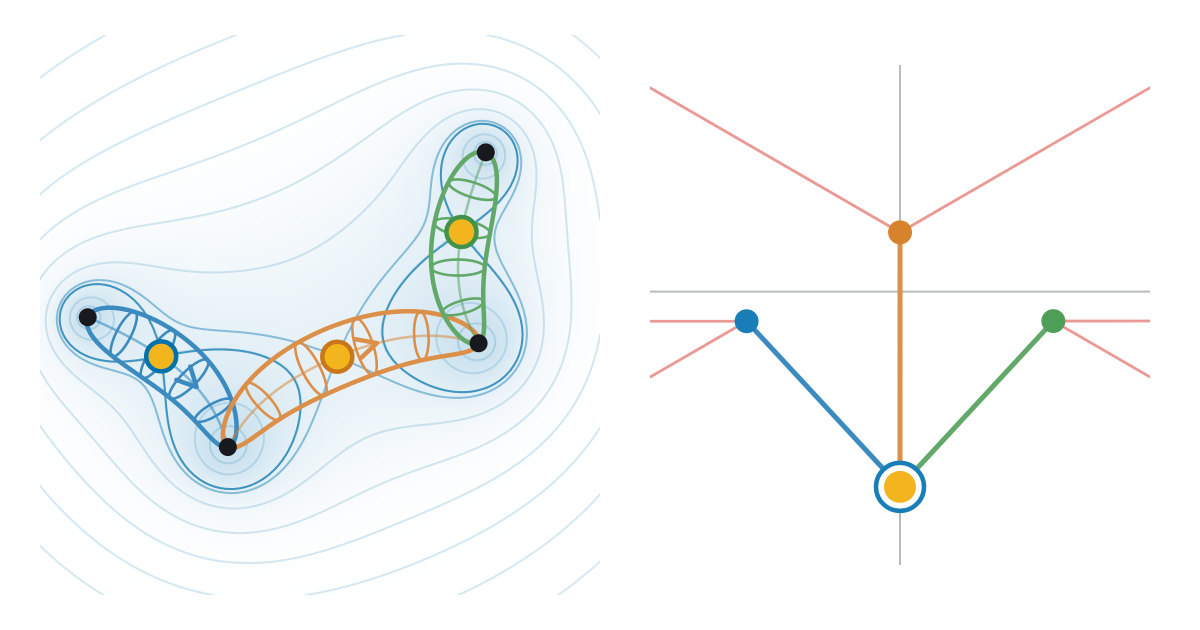
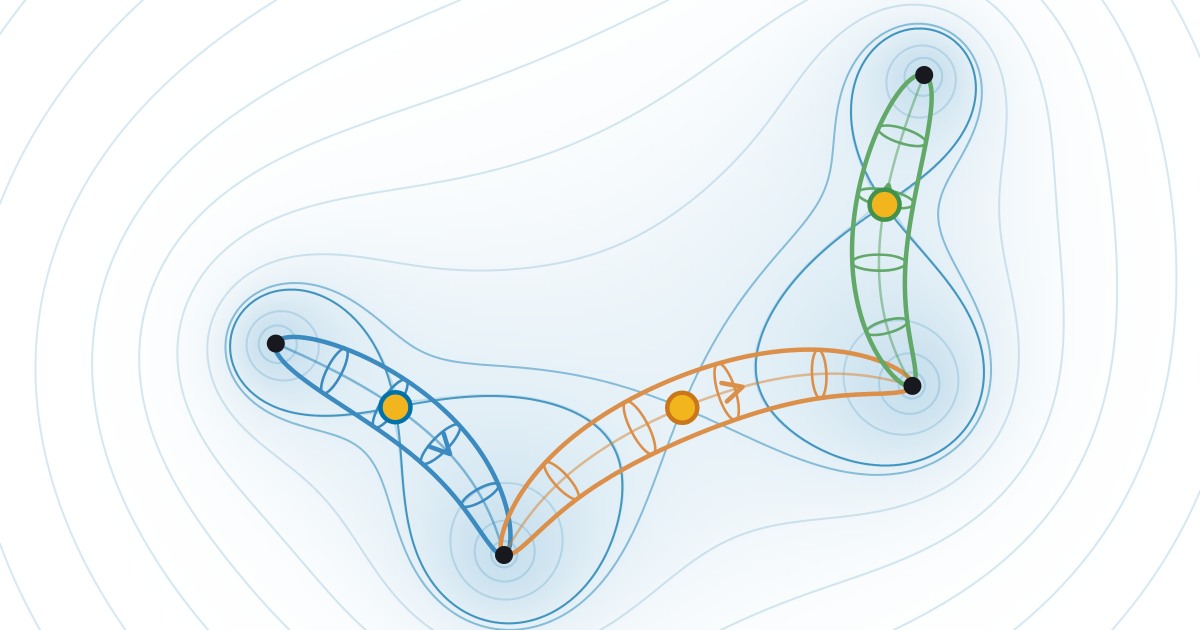
Picard–Lefschetz formula: published
The text is reworked by the user: the general setup (a proper, or tame, f: X → C with
nondegenerate critical points, the Morse form near each, the vanishing sphere and its class),
then the example f = p(x) + y_2² + ⋯ + y_n² on C^n, with τ_i along the straight paths. The
classical monodromy section says why its picture never changes (the loop widens to a large
circle; it is the monodromy of x^{d+1} + ⋯). The Dynkin diagram has Inter numbers in the cycles'
colours, edges under the rings, and a caption for the chosen n; the eigenvalue caption names the
ticks for d and n and gives the order of h. The description of the level sets sits under the
legend in smaller, darker text, in that order on phones too. The card image is the plane of x
alone, across the card. Tagged Algebraic geometry only; references cut with the sentences that
cited them.

diff --git a/content/picard-lefschetz-formula/index.html b/content/picard-lefschetz-formula/index.html
@@ -1,9 +1,8 @@
 ---
 title: Picard–Lefschetz formula
 description: 'Vanishing cycles of a Morse function, and how they change as the value goes once round a critical value: $h_i(\gamma)=\gamma\pm\langle\gamma,\Delta_i\rangle\,\Delta_i$.'
-tags: [complex-analysis, algebraic-geometry]
-date: 2026-11-19
-draft: true
+tags: [algebraic-geometry]
+date: 2026-11-22
 katex_runtime: true
 styles: [style.css]
 scripts: [lefschetz.js, surface.js, main.js, figures.js]
@@ -12,22 +11,6 @@ references:
     authors: V. I. Arnold, S. M. Gusein-Zade, A. N. Varchenko
     title: 'Singularities of Differentiable Maps, Volume II: Monodromy and Asymptotics of Integrals'
     note: Monographs in Mathematics 83, Birkhäuser (1988)
-  - key: lefschetz1924
-    authors: S. Lefschetz
-    title: L’analysis situs et la géométrie algébrique
-    note: Gauthier-Villars, Paris (1924)
-  - key: milnor1968
-    authors: J. Milnor
-    title: Singular Points of Complex Hypersurfaces
-    note: Annals of Mathematics Studies 61, Princeton University Press (1968)
-  - key: picard1897
-    authors: É. Picard, G. Simart
-    title: Théorie des fonctions algébriques de deux variables indépendantes, tome I
-    note: Gauthier-Villars, Paris (1897)
-  - key: seidel2008
-    authors: P. Seidel
-    title: Fukaya Categories and Picard–Lefschetz Theory
-    note: Zurich Lectures in Advanced Mathematics, European Mathematical Society (2008)
 ---
 <div class="wrap">
   <p class="lede">For a function $f\colon X\to\CC$ with isolated nondegenerate critical points, Picard–Lefschetz theory describes how its fibres $X_a = f^{-1}(a)$ change as $a$ goes round a critical value $a_i$ of $f$. Each fibre has a vanishing cycle $\Delta_i \subset X_a$ for each critical value $a_i$, an $(n-1)$-sphere that shrinks to a point as $a$ goes to $a_i$, where $n = \dim X$. Taking $a$ once round $a_i$ changes each cycle $\gamma$ of $X_a$ by the Picard–Lefschetz formula, $h_i(\gamma)=\gamma+(-1)^{n(n+1)/2}\langle\gamma,\Delta_i\rangle\,\Delta_i$.</p>
@@ -75,9 +58,7 @@ references:
       <section class="side-block side-head" aria-labelledby="title">
         <h2 class="side-title" id="title"></h2>
         <div class="legend" id="legend"></div>
-      </section>
-      <section class="side-block side-more pl-about" aria-label="About the level sets">
-        <p class="side-sub" id="sub"></p>
+        <p class="pl-about" id="sub"></p>
       </section>
       <section class="side-block pl-zblock" aria-label="The plane of values">
         <div class="pl-zplane" id="zplane">
@@ -115,34 +96,39 @@ references:
     </div>
     <figcaption class="caption" id="v3-cap">The level set $X_a$ near a critical point $x_i$, in coordinates in which $f=a_i+x^2+y^2$, as $a$ comes to $a_i$. It is the curve $x^2+y^2=a-a_i$, a double cover of the disc $|x|\le1$ branched at $\pm\sqrt{a-a_i}$, whose two sheets, white and blue, meet along the vanishing circle. At $a=a_i$ the cycle has shrunk to the singular point.</figcaption>
   </figure>
-  <p>In general, $f\colon X\to\CC$ is a holomorphic function on a complex manifold of dimension $n$ whose critical points are isolated and nondegenerate, with distinct critical values, and which is well behaved at infinity (proper, for instance); Lefschetz studied the fibres of a pencil of hyperplane sections of a projective variety in this way [@lefschetz1924]. Over the regular values its fibres form a fibre bundle, so a loop of values carries the homology of a fibre back to itself. Near each critical point $f$ is a sum of squares in suitable coordinates, which gives a vanishing cycle, and what a loop round a single critical value does depends only on this local form [@arnold1988]. This page follows one example, on $X=\CC^n$, in which all of this can be seen in the plane of $x$.</p>
-  <p>Let $p$ be a monic polynomial of degree $d+1$ whose critical points $x_1,\dots,x_d$ are simple and whose critical values $a_i=p(x_i)$ are distinct. The critical points of $f=p(x)+y_2^2+\cdots+y_n^2$ are the points $(x_i,0,\dots,0)$, all nondegenerate, so the level set $X_a=f^{-1}(a)$ is a smooth complex manifold for every $a$ other than $a_1,\dots,a_d$. It is homotopy equivalent to a bouquet of $d$ spheres $S^{n-1}$, as Milnor showed for the level sets near any isolated critical point [@milnor1968], so that</p>
-  $$H_{n-1}(X_a)\cong\ZZ^d$$
-  <p>(in reduced homology for $n=1$, where $X_a$ is $d+1$ points).</p>
-  <p>Near $x_i$ there are coordinates in which $f=a_i+x^2+y_2^2+\cdots+y_n^2$. For $a$ near $a_i$ the level set there is the quadric $x^2+y_2^2+\cdots+y_n^2=a-a_i$, which contains the sphere of its points in $\sqrt{a-a_i}\,\RR^n$, and this sphere shrinks to the point $x_i$ as $a$ tends to $a_i$, where the quadric becomes a cone. Carried back along a path $\ell$ from a regular value to $a_i$, it gives a class in the homology of the level set at the start of $\ell$, the <strong>vanishing cycle</strong> along $\ell$, defined up to its orientation [@arnold1988, Ch. 1].</p>
-  <p>Since $f$ is $p(x)$ plus a sum of squares, its vanishing cycles can be seen in the plane of $x$. Over a point $x$ the level set is the quadric $y_2^2+\cdots+y_n^2=a-p(x)$, which contains the sphere $\sqrt{a-p(x)}\,S^{n-2}$ and degenerates to a point where $p(x)=a$. A path from $a$ to $a_i$ lifts through $x_i$ to an arc between two roots of $p(x)=a$, and the vanishing cycle is made of the spheres over the points of the arc [@seidel2008]. For the straight path from $a$ to $a_i$ the arc is the line through $x_i$ on which $p(x)-a$ has the phase of $a_i-a$: it runs from the saddle $x_i$ of $|p(x)-a|$ down to two roots, the way water runs, across the level lines in the picture at the top (with Phase in the bar, it runs along the colour of $x_i$).</p>
-  <p>The straight paths from $a$ to the critical values meet only at $a$, and numbered in the order in which they leave it, clockwise, they form a <strong>distinguished system of paths</strong>; their vanishing cycles $\Delta_1,\dots,\Delta_d$ form a basis of $H_{n-1}(X_a)$ [@arnold1988].</p>
+  <p>Consider a holomorphic function $f\colon X\to\CC$ on a complex manifold of dimension $n$ whose critical points are isolated and nondegenerate, with distinct critical values, and which has no critical points at infinity. Near a critical point with critical value $a_i$, $f$ is a sum of squares</p>
+  $$f (z) - a_i = z_1^2 + \cdots + z_n^2$$
+  <p>for suitable coordinates $z_1,\dots,z_n$ round it, and for $a = a_i + \varepsilon$ with small $|\varepsilon| > 0$, the nearby fibre $X_a = f^{-1} (a)$ is, near the critical point,</p>
+  $$\{ z_1^2 + \cdots + z_n^2 = \varepsilon \},$$
+  <p>and contains a sphere $S^{n-1}$, the <strong>vanishing cycle</strong>, where all $z_k / \sqrt{\varepsilon} \in \RR$, which shrinks to a point as $\varepsilon \to 0$. Strictly speaking, the vanishing cycle is the class </p>
+  $$\Delta_i \in H_{n-1}(X_a)$$
+  <p>represented by the sphere $S^{n-1}$, well-defined up to its orientation
+  (in reduced homology when $n = 1$). Picard–Lefschetz theory describes what happens to cycles when $a$ goes round a critical value $a_i$, which only depends on this local form.</p>
+  <p>Here, we follow one example in which all of this can be seen in a plane. Take $X=\CC^n$, and consider the function</p>
+  $$f (x, y_2, \dots, y_n) = p(x) + y_2^2 + \cdots + y_n^2,$$
+  <p>where $p$ is a monic polynomial of degree $d+1$ with simple critical points $x_1,\dots,x_d$ and distinct critical values $a_i=p(x_i)$. The critical points of $f$ are the points $(x_i,0,\dots,0)$, and the level set $X_a=f^{-1}(a)$ is a smooth complex manifold for every $a$ other than $a_1,\dots,a_d$. It is homotopy equivalent to a bouquet of $d$ spheres $S^{n-1}$, as can be seen from the picture at the top, so that</p>
+  $$H_{n-1}(X_a)\simeq\ZZ^d$$
+  <p>(in reduced homology for $n=1$, where $X_a$ is $d+1$ points), and it has a basis given by the vanishing cycles $\Delta_1,\dots,\Delta_d$, each obtained by moving $a$ towards $a_i$ along a straight path, as long as it does not pass through any other $a_j$.</p>
 </section>
 
 <section aria-labelledby="sec-formula">
   <h2 class="section-title" id="sec-formula">The Picard–Lefschetz formula</h2>
-  <p>Let $\tau_i$ be the loop that goes from $a$ along the straight path to near $a_i$, once round $a_i$ counterclockwise, and back. Carrying the cycles of $X_a$ along $\tau_i$ gives an automorphism $h_i$ of $H_{n-1}(X_a)$, and the <strong>Picard–Lefschetz formula</strong> says that</p>
+  <p>Let $\tau_i$ be the loop that goes from $a$ along the straight path to near $a_i$, once round $a_i$ counterclockwise, and back. Carrying the cycles of $X_a$ along $\tau_i$ gives an automorphism $h_i$ of $H_{n-1}(X_a)$, called the <strong>monodromy</strong>, and it is given by the <strong>Picard–Lefschetz formula</strong></p>
   <div class="pl-eq" id="eq-1">$$h_i(\gamma)=\gamma+(-1)^{n(n+1)/2}\,\langle\gamma,\Delta_i\rangle\,\Delta_i,\tag{1}$$</div>
-  <p>where $\langle\ ,\ \rangle$ is the intersection form of $X_a$, defined with its complex orientation [@arnold1988, Ch. 1]. It is named after Picard, who studied the cycles on the curves of a family of plane curves [@picard1897], and Lefschetz, who studied them in every dimension [@lefschetz1924].</p>
+  <p>where $\langle\ ,\ \rangle$ is the intersection form of $X_a$, defined with its complex orientation [@arnold1988, Ch. 1]. The picture at the top shows this: take $a$ once round $a_i$, by hand or from the bar, and the cycles $\Delta_j$ that meet $\Delta_i$ come back running along it.</p>
   <p>The self-intersection of a vanishing cycle is</p>
   $$\langle\Delta,\Delta\rangle=\begin{cases}(-1)^{(n-1)(n-2)/2}\cdot2,&n\text{ odd},\\0,&n\text{ even}.\end{cases}$$
   <p>So for odd $n$, $h_i(\Delta_i)=-\Delta_i$ and $h_i$ is the reflection in the hyperplane orthogonal to $\Delta_i$. For even $n$, $h_i(\Delta_i)=\Delta_i$ and $h_i$ is a transvection; for $n=2$ it is the action of the Dehn twist of the curve $X_a$ about the circle $\Delta_i$.</p>
-  <p>Only the part of $X_a$ near $x_i$ changes as $a$ goes round $a_i$. There the two roots at the ends of $\Delta_i$ are $x_i\pm\sqrt{(a-a_i)/b_i}$ to first order, with $b_i=\frac12p''(x_i)$, so they turn half a turn round each other. An arc that ends at one of them comes back as the arc that runs along it and then along $\Delta_i$: it has become $\gamma\pm\Delta_i$, with the sign of <a href="#eq-1">$(1)$</a>. The picture at the top shows this: take $a$ once round $a_i$, by hand or from the bar, and the cycles that meet $\Delta_i$ come back running along it.</p>
-  <p>The basis of straight paths in the picture at the top does not change as $a$ goes round $a_i$: it is the same basis when $a$ is back (choose $\Delta_i$ in the bar to see it). Instead it jumps where $a$ crosses a <strong>Stokes ray</strong>, the ray from $a_k$ away from $a_j$: there the straight path to $a_j$ runs through $a_k$, $\Delta_j$ runs into $x_k$, and across the ray the path to $a_j$ changes by the loop $\tau_k$, so that $\Delta_j$ becomes $h_k^{\pm1}(\Delta_j)$. This is the Stokes phenomenon of <a href="/stokes-phenomenon/">Stokes phenomenon</a>, where the thimbles jump in the same way.</p>
+  <p>On the other hand, the basis $\Delta_i$ given by straight paths in the picture at the top does not change after $a$ goes round $a_i$: it is the same basis when $a$ is back (choose <em>Show $\Delta_i$</em> to see it). Instead it jumps where $a$ crosses a <strong>Stokes ray</strong>, the ray from $a_k$ away from $a_j$: there the straight path to $a_j$ runs through $a_k$, $\Delta_j$ runs into $x_k$, and across the ray the path to $a_j$ changes by the loop $\tau_k$, so that $\Delta_j$ becomes $h_k^{\pm1}(\Delta_j)$. The thimbles of <a href="/stokes-phenomenon/">Stokes phenomenon</a> jump in the same way.</p>
 </section>
 
 <section aria-labelledby="sec-form">
   <h2 class="section-title" id="sec-form">The intersection form</h2>
   <figure id="dyn-fig">
     <div class="pl-dynbox"><svg id="dyn" role="img" aria-label="The Dynkin diagram of the vanishing cycles in the picture at the top"></svg></div>
-    <figcaption class="caption">The Dynkin diagram of the basis in the picture at the top: a node for each $\Delta_i$, placed as its critical value, and an edge where $\langle\Delta_i,\Delta_j\rangle\ne0$, dashed where it is $-1$ for $n=3$ (for $n=1$ the signs are the other way), and for $n=2$ pointing from $i$ to $j$ where $\langle\Delta_i,\Delta_j\rangle=1$.</figcaption>
+    <figcaption class="caption" id="dyn-cap">The Dynkin diagram of the basis in the picture at the top: a node for each $\Delta_i$, placed as its critical value, and an arrow from $i$ to $j$ where $\langle\Delta_i,\Delta_j\rangle=1$.</figcaption>
   </figure>
-  <p>The arcs of a distinguished basis meet only at their ends. Two vanishing cycles whose arcs share an end meet once, at the point over it, and $\langle\Delta_i,\Delta_j\rangle=\pm1$; cycles over disjoint arcs do not meet. The form is symmetric for odd $n$ and skew-symmetric for even $n$, and adding two squares changes its sign without changing the monodromy [@arnold1988]:</p>
+  <p>The arcs of a basis $\Delta_1,\dots,\Delta_d$ meet only at their ends. Two vanishing cycles whose arcs share an end meet once, at the point over it, and $\langle\Delta_i,\Delta_j\rangle=\pm1$; cycles over disjoint arcs do not meet. The form is symmetric for odd $n$ and skew-symmetric for even $n$, and increasing $n$ by $2$ changes its sign without changing the monodromy [@arnold1988]:</p>
   $$\langle\gamma,\delta\rangle_{n+2}=-\langle\gamma,\delta\rangle_n,\qquad h^{(n+2)}_i=h^{(n)}_i.$$
   <p>For $n=3$, $-\langle\ ,\ \rangle$ is positive definite, and the vanishing cycles are roots of the root system $\mathrm{A}_d$ (see <a href="/root-systems/">Root systems</a>); the basis the page opens with is a chain, with the Dynkin diagram of $\mathrm{A}_d$. Where $a$ crosses a Stokes ray the basis changes, and so does the diagram, though the lattice it describes does not.</p>
 </section>
@@ -151,12 +137,11 @@ references:
   <h2 class="section-title" id="sec-monodromy">Monodromy</h2>
   <figure id="eig-fig">
     <div class="pl-eigbox"><svg id="eig" role="img" aria-label="The eigenvalues of the classical monodromy on the unit circle"></svg></div>
-    <p class="caption pl-twval" id="eig-val"></p>
-    <figcaption class="caption">The eigenvalues of the classical monodromy $h$ on the unit circle, with ticks at the $(d+1)$-th roots of unity times $(-1)^{n-1}$.</figcaption>
+    <figcaption class="caption" id="eig-cap">The eigenvalues of the classical monodromy $h$ on the unit circle, with ticks at minus the fourth roots of unity; $h$ has order $4$.</figcaption>
   </figure>
-  <p>A loop that $a$ travels is a product of the loops $\tau_i$ and their inverses, which generate the fundamental group of the plane without the critical values, a free group. The <strong>monodromy</strong> of the loop is the automorphism $h$ it gives; if it is $\tau_{i_1}^{\pm1}$, then $\tau_{i_2}^{\pm1}$, and so on, then $h=\cdots h_{i_2}^{\pm1}h_{i_1}^{\pm1}$, which preserves the intersection form. Next to the picture at the top, $h(\Delta_i)$ is $\Delta_i$ carried along the path of $a$ since it was picked up (or along the loop chosen in the bar), written in the basis at $a$, with the path closed up by the straight segment back to its start. The picture shows these cycles (with $\Delta_i$ in the bar, the basis instead): their arcs are dragged along with the roots and pulled tight once $a$ rests, a number beside an arc saying how many of its strands run together there, and while $h$ is the identity they are drawn as the basis. For odd $n$ the class of a sphere over an arc depends only on the roots at its ends, as for $n=1$, so that $h_i^2=1$ though the spheres carried wind once more round the ends of $\Delta_i$ each time $a$ goes round $a_i$; there each $h(\Delta_i)$ is drawn along the arcs of the basis that join its ends.</p>
-  <p>The <strong>monodromy group</strong> is generated by $h_1,\dots,h_d$. For odd $n$ these are reflections, and they generate the Weyl group of $\mathrm{A}_d$, the symmetric group on $d+1$ letters; for $n=1$ it permutes the $d+1$ points of $X_a$. For $n=2$ the group is infinite: for $d=2$, $X_a$ is a torus with a hole and the group is $\mathrm{SL}_2(\ZZ)$.</p>
-  <p>Once round all the critical values is the <strong>classical monodromy</strong>, $h=h_1h_2\cdots h_d$ for a distinguished basis [@arnold1988]. For $f=x^{d+1}+y_2^2+\cdots+y_n^2$ its eigenvalues are $(-1)^{n-1}\mathrm{e}^{2\pi\mathrm{i}k/(d+1)}$ for $k=1,\dots,d$; in the basis the page opens with it takes $\Delta_1,\dots,\Delta_{d-1}$ to $\pm\Delta_2,\dots,\pm\Delta_d$.</p>
+  <p>When $a$ travels along a loop which is a product of the loops $\tau_i$ and their inverses, the <strong>monodromy</strong> of the loop is the automorphism $h$ which is the product of the corresponding operators $h_i^{\pm 1}$, which preserves the intersection form. The fundamental group of the plane without the critical values $a_i$ is a free group generated by the loops $\tau_i$, so these loops give all the possible monodromies.</p>
+  <p>The <strong>monodromy group</strong> is the group generated by $h_1,\dots,h_d$. For odd $n$ these are reflections, and they generate the Weyl group of $\mathrm{A}_d$, the symmetric group on $d+1$ letters; for $n=1$ it permutes the $d+1$ points of $X_a$. For $n=2$ the group is infinite: for $d=2$, $X_a$ is a punctured torus and the group is $\mathrm{SL}_2(\ZZ)$.</p>
+  <p>The monodromy for the loop that goes once round all the critical values is the <strong>classical monodromy</strong> $h=h_1h_2\cdots h_d$ [@arnold1988]. That loop can be widened to a large circle, far from all the critical values, so up to conjugation $h$ stays the same when the critical points move, and its eigenvalues do not change. Bringing the critical points together at $0$ gives $f=x^{d+1}+y_2^2+\cdots+y_n^2$, whose monodromy has eigenvalues $(-1)^{n-1}\mathrm{e}^{2\pi\mathrm{i}k/(d+1)}$ for $k=1,\dots,d$; in the basis the page opens with it takes $\Delta_1,\dots,\Delta_{d-1}$ to $\pm\Delta_2,\dots,\pm\Delta_d$.</p>
 </section>
 </div>
 </div>

diff --git a/content/picard-lefschetz-formula/thumb.html b/content/picard-lefschetz-formula/thumb.html
@@ -1,37 +1,27 @@
-<!-- The card image (npm run thumbs): the page's two pictures as it opens (μ = 3, n = 3), computed
-     with lefschetz.js as main.js computes them, with heavier marks so that they read at card size.
-     Left, the plane of x, shaded by |p(x) − z| with its level lines, the roots of p(x) = z, the
-     vanishing spheres over the arcs of the straight paths (their outlines, a few of their circles
-     and their orientations) and the critical points. Right, the plane of values: the Stokes rays,
-     the straight paths from z to the critical values, the critical values and the handle z. -->
+<!-- The card image (npm run thumbs): the main picture, the plane of x, for d = 3 and n = 3 with the
+     value a where the page opens, computed with lefschetz.js as main.js computes it, with heavier
+     marks so that it reads at card size, across the whole card: shaded by |p(x) − a| with its level
+     lines, the roots of p(x) = a, the vanishing spheres over the arcs of the straight paths (their
+     outlines, a few of their circles and their orientations) and the critical points. (In the
+     script, z is the value a, as in main.js.) -->
 <script src="lefschetz.js"></script>
 <script>
 (function () {
   const W = MMThumb.W, H = MMThumb.H, cx = MMThumb.canvas(), PL = window.Lefschetz, TAU = 2 * Math.PI;
   const crit = [[-0.918, -0.239], [0.1, -0.241], [0.818, 0.48]];
   const P = PL.poly(crit), dist = (a, b) => Math.hypot(a[0] - b[0], a[1] - b[1]);
-  // the page's windows (main.js, fit): the plane of values round the critical values and z, the
-  // plane of x round the roots of p(x) = w for w in it
+  // the value where the page opens (main.js)
   let Rc = 1e-3;
   P.vals.forEach((v) => { Rc = Math.max(Rc, Math.hypot(v[0], v[1])); });
-  const z = [0, -1.25 * Rc], zv = { cx: 0, cy: -0.15 * Rc, R: Math.max(1.6 * Rc, 1.2 * Math.hypot(z[0], z[1] + 0.15 * Rc)) };
-  let Rx = 0, guess = null;
-  for (let k = 0; k < 96; k++) {
-    const t = k / 96 * TAU;
-    guess = PL.roots(P, zv.cx + 1.2 * zv.R * Math.cos(t), zv.cy + 1.2 * zv.R * Math.sin(t), guess);
-    guess.forEach((q) => { Rx = Math.max(Rx, Math.hypot(q[0], q[1])); });
-  }
-  crit.forEach((c) => { Rx = Math.max(Rx, 1.15 * Math.hypot(c[0], c[1])); });
-  const xv = { cx: 0, cy: 0, R: 1.04 * Rx };
-  // the two squares on the card
-  const box = (v, x0, y0, side) => {
-    const k = side / (2 * v.R);
-    return { k, x0, y0, side, X: (x) => x0 + side / 2 + (x - v.cx) * k, Y: (y) => y0 + side / 2 - (y - v.cy) * k, x: (px) => v.cx + (px - x0 - side / 2) / k, y: (py) => v.cy - (py - y0 - side / 2) / k };
-  }
-  const XB = box(xv, 40, 35, 560), ZB = box(zv, 650, 65, 500);
+  const z = [0, -1.25 * Rc];
+  // the whole card, round the roots of p(x) = z and the critical points, with room for the spheres
+  const rts = PL.roots(P, z[0], z[1]), pts = rts.concat(crit);
+  const bx0 = Math.min(...pts.map((q) => q[0])), bx1 = Math.max(...pts.map((q) => q[0])), by0 = Math.min(...pts.map((q) => q[1])), by1 = Math.max(...pts.map((q) => q[1]));
+  const kx = Math.min((W - 2 * 110) / (bx1 - bx0), (H - 2 * 75) / (by1 - by0)), mx = (bx0 + bx1) / 2, my = (by0 + by1) / 2;
+  const XB = { k: kx, x0: 0, y0: 0, w: W, h: H, X: (x) => W / 2 + (x - mx) * kx, Y: (y) => H / 2 - (y - my) * kx, x: (px) => mx + (px - W / 2) / kx, y: (py) => my - (py - H / 2) / kx };
 
   // the cycles along the straight paths from z, oriented as on the page
-  const rts = PL.roots(P, z[0], z[1]), h = 2 / XB.k;
+  const h = 2 / XB.k;
   const raw = P.vals.map((v, j) => {
     const r = Math.sqrt(dist(z, v)), ph = Math.atan2(z[1] - v[1], z[0] - v[0]);
     const A = PL.lift(P, j, [z[0], z[1], v[0], v[1]], [1, 0], [r * Math.cos(ph / 2), r * Math.sin(ph / 2)], h);
@@ -79,8 +69,8 @@
     // critical points, with its level lines, those through the critical points darker (main.js,
     // landImage)
     cx.save();
-    cx.beginPath(); cx.rect(XB.x0, XB.y0, XB.side, XB.side); cx.clip();
-    const sig = 0.4 * Rc, G0 = 5, nx = Math.ceil(XB.side / G0) + 1, ny = nx, G = new Float64Array(nx * ny), e = [0, 0, 0, 0];
+    cx.beginPath(); cx.rect(XB.x0, XB.y0, XB.w, XB.h); cx.clip();
+    const sig = 0.4 * Rc, G0 = 5, nx = Math.ceil(XB.w / G0) + 1, ny = Math.ceil(XB.h / G0) + 1, G = new Float64Array(nx * ny), e = [0, 0, 0, 0];
     const g = (x, y) => { PL.evalPD(P, x, y, e); return Math.asinh(Math.hypot(e[0] - z[0], e[1] - z[1]) / sig); };
     for (let j = 0; j < ny; j++) for (let i = 0; i < nx; i++) G[j * nx + i] = g(XB.x(XB.x0 + i * G0), XB.y(XB.y0 + j * G0));
     const lv = P.vals.map((v) => Math.asinh(dist(v, z) / sig)).sort((a, b) => a - b), mid = lv[lv.length >> 1];
@@ -148,33 +138,6 @@
       cx.fillStyle = MM.color('handle'); cx.strokeStyle = MM.color('cy-' + (j + 1) + '-text'); cx.lineWidth = 4.5;
       cx.beginPath(); cx.arc(XB.X(c[0]), XB.Y(c[1]), 15, 0, TAU); cx.fill(); cx.stroke();
     });
-    cx.restore();
-
-    // the plane of values: axes, Stokes rays, the paths from z, the critical values, z
-    const Z = ZB;
-    cx.save();
-    cx.beginPath(); cx.rect(Z.x0, Z.y0, Z.side, Z.side); cx.clip();
-    cx.strokeStyle = MM.rgba('ink', 0.3); cx.lineWidth = 2;
-    cx.beginPath();
-    cx.moveTo(Z.x0, Z.Y(0)); cx.lineTo(Z.x0 + Z.side, Z.Y(0));
-    cx.moveTo(Z.X(0), Z.y0); cx.lineTo(Z.X(0), Z.y0 + Z.side);
-    cx.stroke();
-    const vals = P.vals, far = 4 * zv.R;
-    cx.strokeStyle = MM.rgba('red', 0.5); cx.lineWidth = 2.8;
-    vals.forEach((zj, j) => vals.forEach((zk, k) => {
-      if (j === k) return;
-      const L = dist(zk, zj);
-      cx.beginPath(); cx.moveTo(Z.X(zk[0]), Z.Y(zk[1])); cx.lineTo(Z.X(zk[0] + (zk[0] - zj[0]) / L * far), Z.Y(zk[1] + (zk[1] - zj[1]) / L * far)); cx.stroke();
-    }));
-    vals.forEach((v, j) => {
-      cx.strokeStyle = MM.color('cy-' + (j + 1) + '-line'); cx.lineWidth = 5;
-      cx.beginPath(); cx.moveTo(Z.X(z[0]), Z.Y(z[1])); cx.lineTo(Z.X(v[0]), Z.Y(v[1])); cx.stroke();
-    });
-    vals.forEach((v, j) => { cx.fillStyle = MM.color('cy-' + (j + 1)); cx.beginPath(); cx.arc(Z.X(v[0]), Z.Y(v[1]), 12, 0, TAU); cx.fill(); });
-    const hx = Z.X(z[0]), hy = Z.Y(z[1]);
-    cx.fillStyle = MM.color('surface'); cx.beginPath(); cx.arc(hx, hy, 24, 0, TAU); cx.fill();
-    cx.strokeStyle = MM.color('handle-ring'); cx.lineWidth = 4.5; cx.beginPath(); cx.arc(hx, hy, 24, 0, TAU); cx.stroke();
-    cx.fillStyle = MM.color('handle'); cx.beginPath(); cx.arc(hx, hy, 16, 0, TAU); cx.fill();
     cx.restore();
   }
   MM.onFonts(draw);

diff --git a/content/picard-lefschetz-formula/figures.js b/content/picard-lefschetz-formula/figures.js
@@ -361,6 +361,13 @@
     const key = JSON.stringify([W, n, S, vals]);
     if (svg.dataset.key === key) return;
     svg.dataset.key = key;
+    // its caption, for the n in the bar
+    const cap = $('dyn-cap');
+    if (cap && cap.dataset.n !== String(n)) {
+      cap.dataset.n = String(n);
+      MM.setHTML(cap, 'The Dynkin diagram of the basis in the picture at the top: a node for each $\\Delta_i$, placed as its critical value, and '
+        + (n === 2 ? 'an arrow from $i$ to $j$ where $\\langle\\Delta_i,\\Delta_j\\rangle=1$.' : 'an edge where $\\langle\\Delta_i,\\Delta_j\\rangle\\ne0$, dashed where it is $' + (n === 1 ? '1' : '-1') + '$.'));
+    }
     svg.setAttribute('viewBox', '0 0 ' + W + ' ' + H); svg.style.width = W + 'px'; svg.style.height = H + 'px';
     svg.textContent = '';
     const P = vals.map((v) => [W / 2 + (v[0] - (x0 + x1) / 2) * k, H / 2 - (v[1] - (y0 + y1) / 2) * k]);
@@ -370,14 +377,14 @@
       if (!t) continue;
       const g = el('g', {}, svg), [a, b] = t > 0 || n % 2 ? [P[i], P[j]] : [P[j], P[i]];
       const l = Math.hypot(b[0] - a[0], b[1] - a[1]), ux = (b[0] - a[0]) / l, uy = (b[1] - a[1]) / l;
-      el('line', { x1: a[0] + ux * 13, y1: a[1] + uy * 13, x2: b[0] - ux * 13, y2: b[1] - uy * 13, stroke: 'var(--ink)', 'stroke-width': 1.8, 'stroke-dasharray': n % 2 && t * (n === 1 ? -1 : 1) < 0 ? '5 4' : 'none' }, g);
+      el('line', { x1: a[0] + ux * 11, y1: a[1] + uy * 11, x2: b[0] - ux * 11, y2: b[1] - uy * 11, stroke: 'var(--ink)', 'stroke-width': 1.8, 'stroke-dasharray': n % 2 && t * (n === 1 ? -1 : 1) < 0 ? '5 4' : 'none' }, g);
       if (n % 2 === 0) { const mx = (a[0] + b[0]) / 2, my = (a[1] + b[1]) / 2; el('path', { d: 'M' + (mx - ux * 6 - uy * 5) + ' ' + (my - uy * 6 + ux * 5) + 'L' + (mx + ux * 4) + ' ' + (my + uy * 4) + 'L' + (mx - ux * 6 + uy * 5) + ' ' + (my - uy * 6 - ux * 5), fill: 'none', stroke: 'var(--ink)', 'stroke-width': 1.8 }, g); }
-      if (Math.abs(t) > 1) { const lbl = el('text', { x: (a[0] + b[0]) / 2 - uy * 12, y: (a[1] + b[1]) / 2 + ux * 12 + 4, 'text-anchor': 'middle', 'font-size': 14 }, g); MM.svgLabel(lbl, '$' + Math.abs(t) + '$'); }
+      if (Math.abs(t) > 1) el('text', { x: (a[0] + b[0]) / 2 - uy * 12, y: (a[1] + b[1]) / 2 + ux * 12 + 4, 'text-anchor': 'middle', style: 'font:600 13px var(--sans);fill:var(--ink)' }, g).textContent = String(Math.abs(t));
     }
     P.forEach((p, i) => {
+      // (its number in Inter, in its cycle's colour, as on the handles of the main picture)
       el('circle', { cx: p[0], cy: p[1], r: 11, fill: 'var(--surface)', stroke: 'var(--cy-' + (i + 1) + '-text)', 'stroke-width': 2.4 }, svg);
-      const t = el('text', { x: p[0], y: p[1] + 5, 'text-anchor': 'middle', 'font-size': 14, fill: 'var(--cy-' + (i + 1) + '-text)' }, svg);
-      MM.svgLabel(t, '$' + (i + 1) + '$');
+      el('text', { x: p[0], y: p[1] + 4.6, 'text-anchor': 'middle', style: 'font:600 13px var(--sans);fill:var(--cy-' + (i + 1) + '-text)' }, svg).textContent = String(i + 1);
     });
   }
 
@@ -443,7 +450,9 @@
     // its order
     let P = PL.eye(mu), ord = 0;
     for (let k = 1; k <= 2 * N; k++) { P = PL.matmul(P, H); if (P.every((r, i) => r.every((x, j) => x === +(i === j)))) { ord = k; break; } }
-    MM.setHTML($('eig-val'), ord ? '$h$ has order $' + ord + '$.' : '');
+    // the caption, with the ticks for this d and n, and the order
+    const nth = ['', '', 'second', 'third', 'fourth', 'fifth', 'sixth', 'seventh'][N] || '$(' + N + ')$-th';
+    MM.setHTML($('eig-cap'), 'The eigenvalues of the classical monodromy $h$ on the unit circle, with ticks at ' + (n % 2 ? 'the ' : 'minus the ') + nth + ' roots of unity' + (ord ? '; $h$ has order $' + ord + '$.' : '.'));
   }
 
   /* ---------- the whole ---------- */

diff --git a/content/picard-lefschetz-formula/style.css b/content/picard-lefschetz-formula/style.css
@@ -1,8 +1,7 @@
 /* Picard–Lefschetz formula.
-   Wide: the plane of x on the left; on the right the function, the legend and what the level sets
+   Wide: the plane of x on the left; on the right the function, its legend and what its level sets
    are, the plane of values with the handle of a, the monodromy and the intersection form.
-   Phone: the plane of x, the function and the legend, the plane of values (close under them, so
-   that the picture shows while a moves), what the level sets are, then the rest. */
+   Phone: the plane of x, then the same blocks in the same order. */
 
 /* One colour for each vanishing cycle Δ_i, its path γ_i, its critical point and critical value;
    main.js reads the same names through MM.color. */
@@ -35,13 +34,6 @@ body {
 .pl-sheets { display: inline-block; width: 15px; height: 13px; border-radius: 3px; flex: none; border: 1px solid var(--rule); background: linear-gradient(var(--surface) 50%, color-mix(in srgb, var(--land) 20%, var(--surface)) 50%); }
 
 .pl { --split-main: 1.25fr; --split-below: 40px; }
-@media (max-width: 899.98px) {
-  .pl > .split-main, .pl > .split-side { display: contents; }
-  .pl .side-head { order: 1; }
-  .pl .pl-zblock { order: 2; }
-  .pl .pl-about { order: 3; }
-  .pl .side-block:not(.side-head):not(.pl-zblock):not(.pl-about) { order: 4; }
-}
 
 /* ---------- the plane of x ---------- */
 .pl-xplane { position: relative; }
@@ -60,6 +52,8 @@ body {
 .pl-zh:active { cursor: grabbing; }
 
 /* ---------- readouts ---------- */
+/* what the level sets are, under the legend: text to read, smaller than a subtitle */
+.pl-about { margin: 12px 0 0; font-size: 14px; line-height: 1.55; color: var(--ink); }
 .pl-mono { font-size: 15px; line-height: 1.7; color: var(--ink-2); }
 .pl-mono p { margin: 0; }
 .pl-rule { margin: 6px 0 0; color: var(--ink-3); font-size: 14px; }
@@ -78,7 +72,6 @@ body {
 .pl-dialbox { position: relative; width: 170px; margin: 0 auto; }
 .pl-dialbox canvas { display: block; width: 170px; height: 170px; }
 .pl-dialh { --handle-size: 36px; cursor: grab; }
-.pl-twval { margin-top: 6px; }
 .pl-zblock .legend { margin-top: 10px; }
 .pl-dynbox { display: flex; justify-content: center; }
 .pl-eigbox { display: flex; justify-content: center; }
